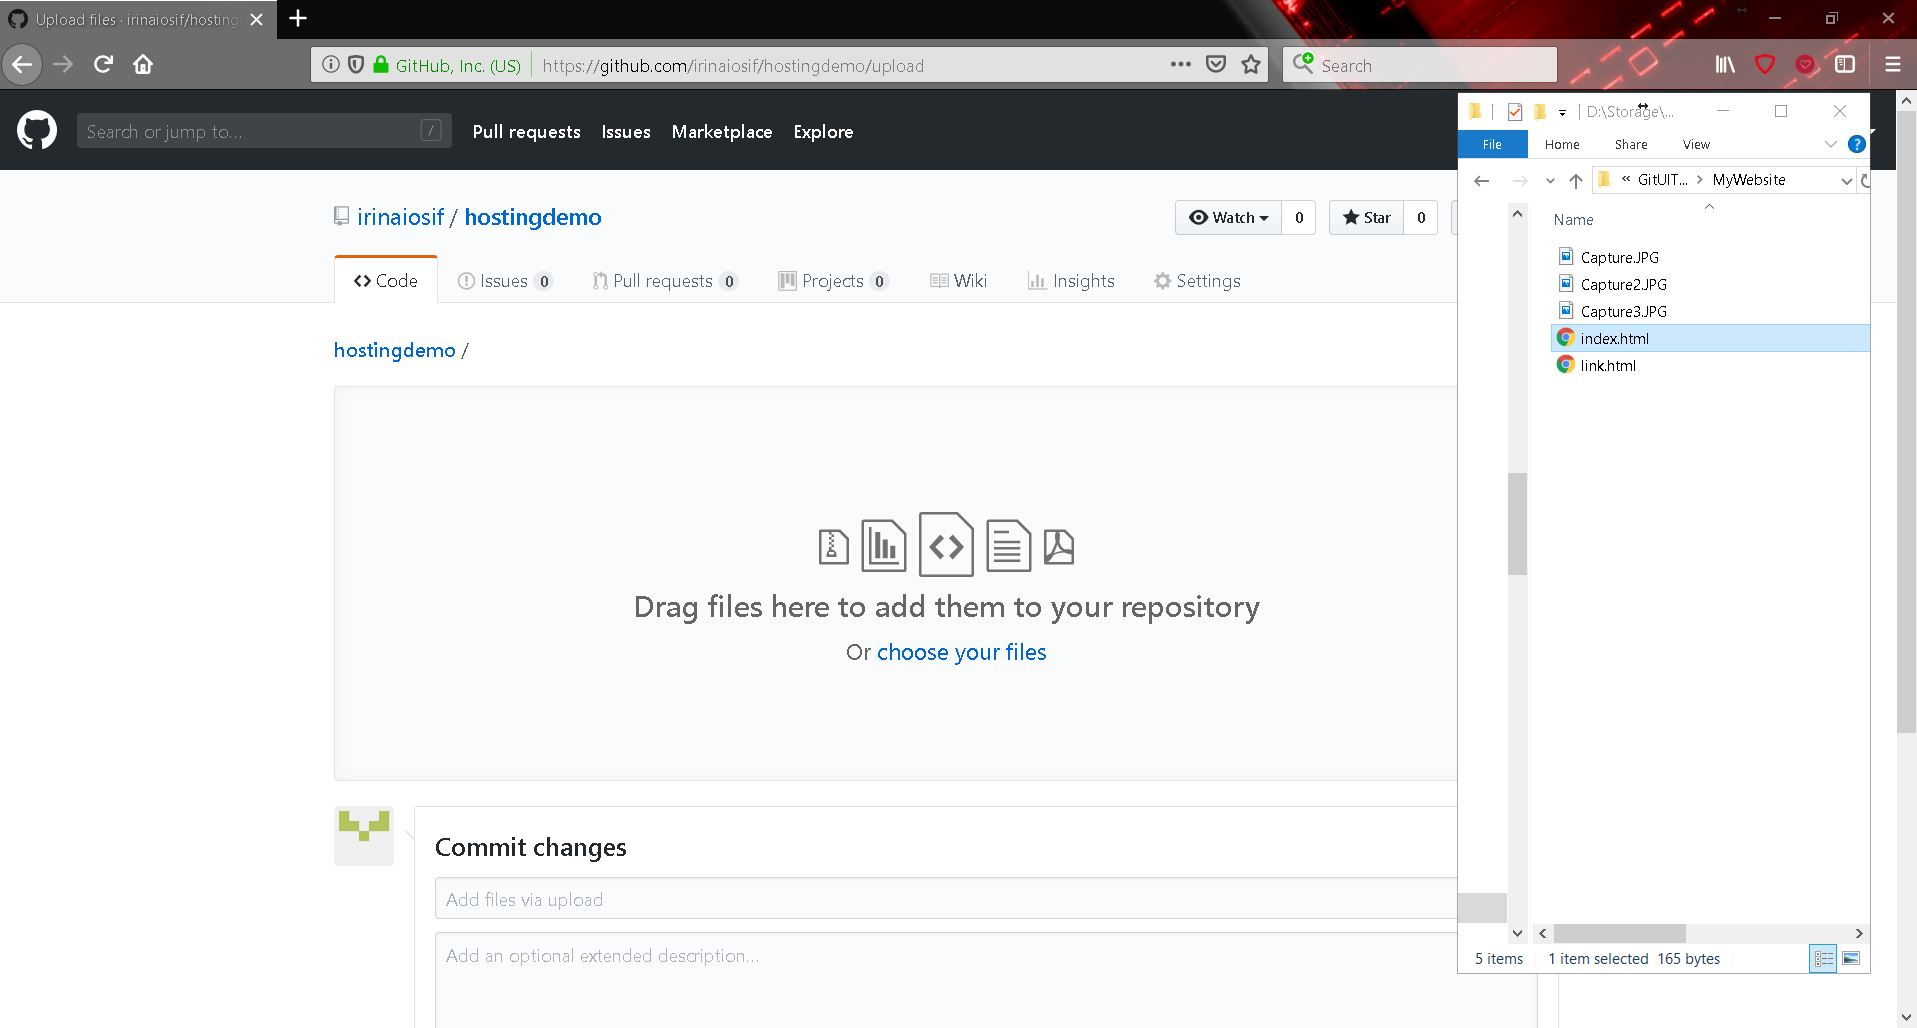
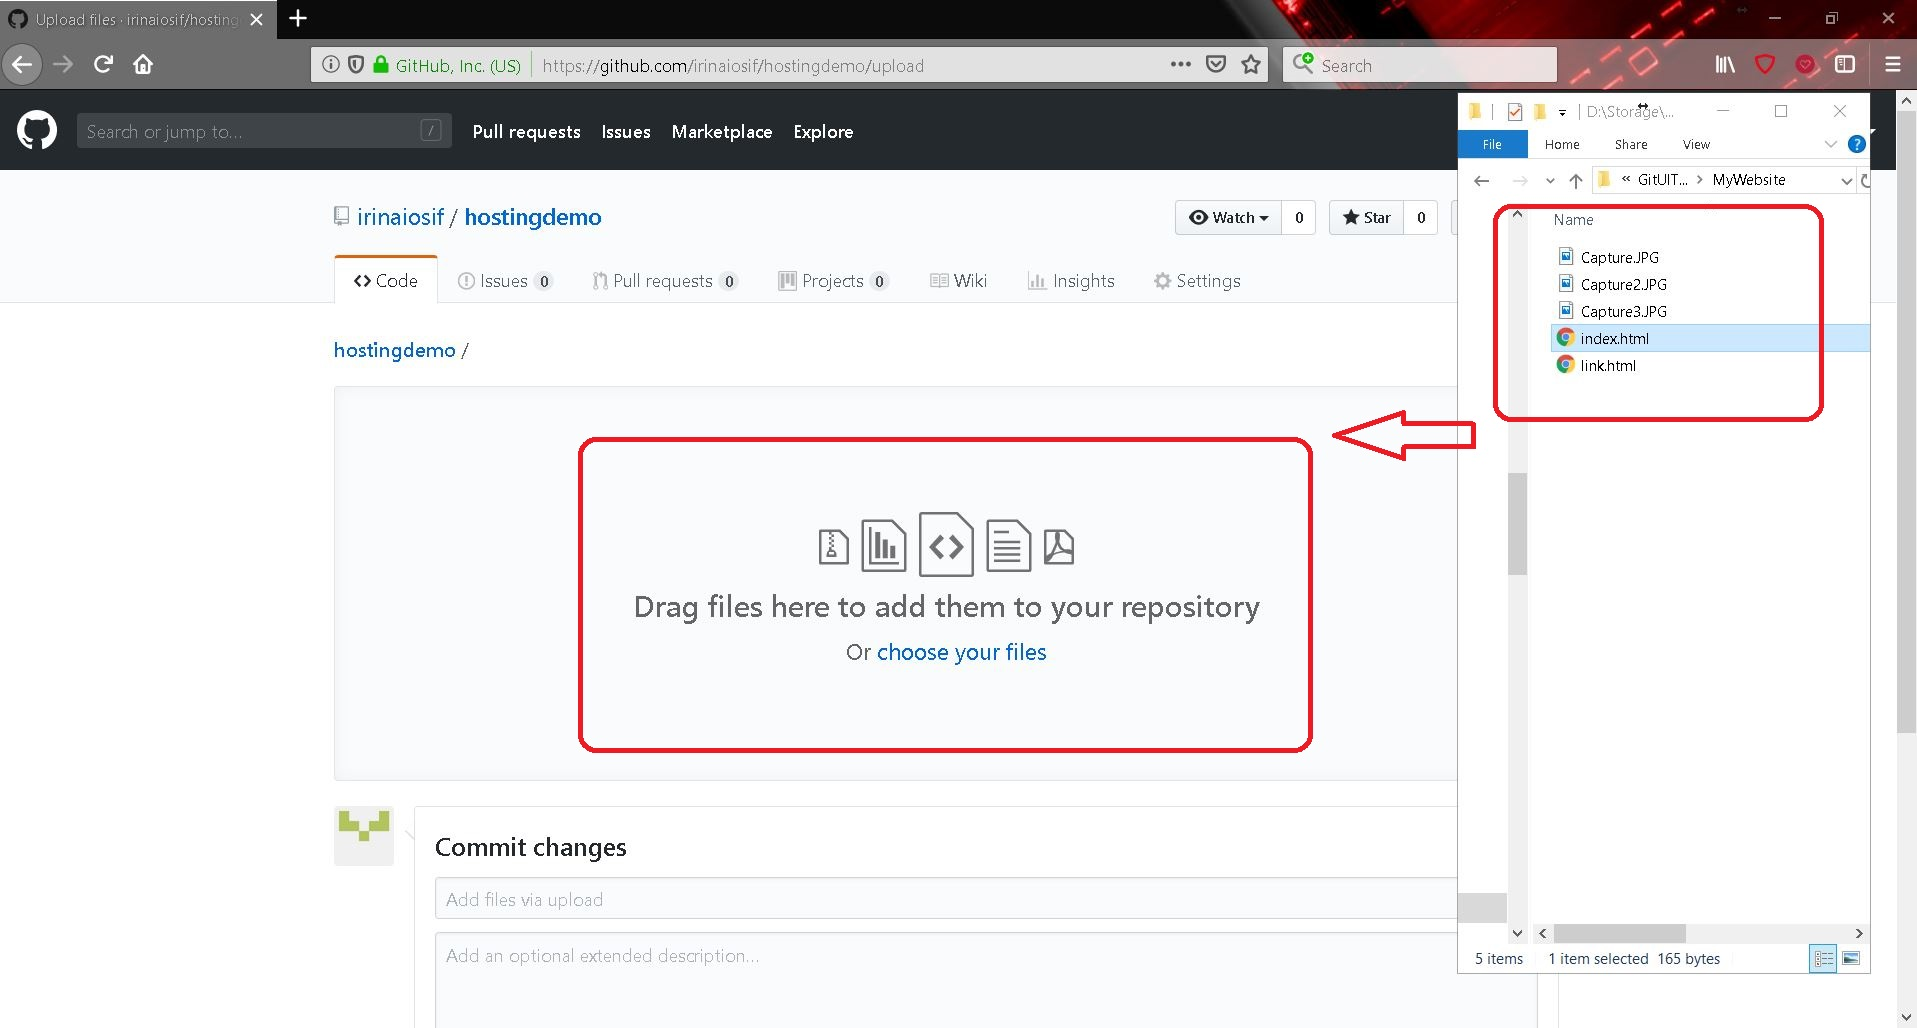
commit all ver 1.1

diff --git a/index.html b/index.html
@@ -2,9 +2,54 @@
 <html>
 <body>
 
-<h1>My First Heading</h1>
-<p>My first paragraph.</p>
-<a href = "link.html"> My first link is working! </a>
+<style>
+img { 
+    max-width: 70%; 
+    height: auto; 
+}
+</style>
+
+
+<h1>Probably the simplest way of publishing your website</h1>
+
+<h2> In order to publish your static website* on Github* we assume you already have the following: a github account (made by visiting singing up on <a href = "https://www.github.com">Github</a>) and a website that is functional on your local machine.</h2>
+
+<h2> After you login, you should be welcomed to this page: </h2>
+<img src = "Capture.JPG">
+<h2> Here you should find the option of creating a new repository* as described in the picture above. </h2>
+
+<h2> Further on, you are invited to choose the name you will use for your website. This will be available for modifing. Leave the rest unchanged and submit:</h2>
+<img src = "Capture2.JPG">
+
+<h2> After you are redirected to the next page, you should find a way to upload your files:</h2>
+
+<img src = "Capture3.JPG">
+
+<h2> Drag and drop all the files referenced into your website. Make sure your main page is named "index.html". Github won't know what to render first unless you use this naming convention. </h2>
+
+<img src = "Capture4.JPG">
+
+<h2> The successfully uploaded files will appear as uploaded. If you encounter any dialog regarding branches*, just make sure the master branch is selected. Then submit to commit changes. </h2>
+
+<img src = "Capture5.JPG">
+
+<h2> This is how you should end up after your files are done being processed:<h2>
+
+<img src = "Capture6.JPG">
+
+<h2> Now you should find the "Settings" tab and select it. Note that here you can also rename and delete your repository in case something went wrong. </h2>
+
+<img src = "Capture7.JPG">
+
+<h2> Scroll down to Github Pages. In order to enable this feature so that you can visualize the website, you have to set the Github Page source of the repository as master branch (the branch where you have your html files).</h2>
+
+<img src = "Capture8.JPG">
+
+<h2> Done! From now on, everyone should be able to view your webiste at the given link:</h2>
+
+<img src = "Capture9.JPG">
+
+<h2><a href = "link.html"> Look how internal links - links to html files in your repository - also work! </a></h2>
 
 </body>
 </html> 

diff --git a/link.html b/link.html
@@ -2,8 +2,7 @@
 <html>
 <body>
 
-<h1>My First Heading</h1>
-<p>My first paragraph.</p>
+<img src = "meme.jpg">
 
 </body>
 </html> 
